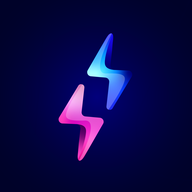
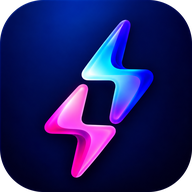
Novo ícone dos raios neon e ajustes de responsividade para iPhone
- Favicon, ícones do PWA e apple-touch-icon gerados a partir da arte em alta
  (branding/upclass-icone-fonte.png); cache do service worker renovado (v3).
- iOS: sem zoom ao focar campos, altura de tela com dvh, áreas seguras
  (notch/Dynamic Island, também com o iPhone deitado), sem realce de toque.
- Forecast: barra de filtros não passa mais da largura da tela no celular.
- Alvos de toque de pelo menos ~40 px nos botões compactos e área de toque
  ampliada nos botões de texto e interruptores.
- Painel da Loja: margens e notch no celular; botão "Tela Cheia" só aparece
  onde o navegador suporta (o Safari do iPhone não suporta).

diff --git a/src/index.css b/src/index.css
@@ -205,6 +205,7 @@ html, body {
 
 #root {
   min-height: 100vh;
+  min-height: 100dvh;
   width: 100%;
   max-width: 100vw;
   display: flex;
@@ -231,6 +232,7 @@ button {
 .app-container {
   display: flex;
   min-height: 100vh;
+  min-height: 100dvh;
   width: 100%;
   max-width: 100vw;
   position: relative;
@@ -244,6 +246,7 @@ button {
   padding: 28px 36px;
   overflow-y: auto;
   height: 100vh;
+  height: 100dvh;
   box-sizing: border-box;
 }
 
@@ -251,6 +254,7 @@ button {
   .app-container {
     flex-direction: column;
     min-height: 100vh;
+    min-height: 100dvh;
     height: auto;
   }
 
@@ -570,5 +574,110 @@ table tbody tr { transition: background-color var(--dur-fast) ease; }
     animation-iteration-count: 1 !important;
     transition-duration: 0.01ms !important;
     scroll-behavior: auto !important;
+  }
+}
+
+/* ============================================================
+   iPhone / iOS (Safari e app instalado na tela inicial)
+   ============================================================ */
+html {
+  /* Não deixa o Safari aumentar o texto sozinho ao girar a tela. */
+  -webkit-text-size-adjust: 100%;
+  text-size-adjust: 100%;
+}
+
+button,
+a,
+[role='button'],
+[role='tab'],
+summary,
+label {
+  /* Sem o retângulo cinza do toque no iOS; o estado ativo de cada botão já dá o retorno visual. */
+  -webkit-tap-highlight-color: transparent;
+  touch-action: manipulation;
+}
+
+/* Safari (iOS) dá zoom na tela ao focar campo com fonte < 16px — o layout "pula" e não volta. */
+@supports (-webkit-touch-callout: none) {
+  input:not([type='checkbox']):not([type='radio']):not([type='range']),
+  select,
+  textarea {
+    font-size: max(16px, 1em) !important;
+  }
+}
+
+/* Campos de data/número do iOS ignoram parte do estilo e ficam mais altos/largos que o resto. */
+input[type='date'],
+input[type='time'],
+input[type='datetime-local'] {
+  -webkit-appearance: none;
+  appearance: none;
+  min-width: 0;
+}
+input[type='date']::-webkit-date-and-time-value {
+  text-align: left;
+}
+
+/* Modais e listas roláveis: rolagem com inércia e sem "puxar" a página de trás. */
+[role='dialog'],
+.mc-modal,
+.turn-modal-body {
+  overscroll-behavior: contain;
+  -webkit-overflow-scrolling: touch;
+}
+
+/* Alvos de toque no celular (recomendação da Apple: ~44 pt). Botões compactos ganham altura mínima;
+   botões de texto/ícone muito pequenos ganham uma área de toque invisível maior, sem mudar o visual. */
+@media (max-width: 768px) {
+  .fin-icon-btn,
+  .sellers-month-arrow,
+  .sales-pagination-btn {
+    min-width: 40px;
+    min-height: 40px;
+  }
+  .fin-month-control select,
+  .fin-btn,
+  .sales-view-btn,
+  .sales-date-select,
+  .dv-segmented button,
+  .dv-tabs button,
+  .dv-legend-btn,
+  .access-manage-btn,
+  .fin-input {
+    min-height: 40px;
+  }
+  .fin-th-btn,
+  .fin-link-btn,
+  .fin-link,
+  .fin-back,
+  .sellers-profit-link,
+  .ios-hit,
+  .sleek-theme-switch {
+    position: relative;
+  }
+  .fin-th-btn::after,
+  .fin-link-btn::after,
+  .fin-link::after,
+  .fin-back::after,
+  .sellers-profit-link::after,
+  .ios-hit::after,
+  .sleek-theme-switch::after {
+    content: '';
+    position: absolute;
+    inset: -10px -6px;
+  }
+}
+
+/* iPhone deitado: o notch/Dynamic Island fica na lateral — o conteúdo não passa por baixo dele. */
+@media (max-width: 1024px) {
+  .main-content {
+    padding-left: max(24px, env(safe-area-inset-left, 0px));
+    padding-right: max(24px, env(safe-area-inset-right, 0px));
+  }
+}
+@media (max-width: 640px) {
+  .main-content {
+    padding-left: max(14px, env(safe-area-inset-left, 0px));
+    padding-right: max(14px, env(safe-area-inset-right, 0px));
   }
 }

diff --git a/src/pages/Settings.tsx b/src/pages/Settings.tsx
@@ -92,6 +92,7 @@ export function Settings() {
               <p className="text-muted text-sm">Mostra o ranking de vendedores no dashboard principal.</p>
             </div>
             <button
+              className="ios-hit"
               onClick={() => toggle('show_ranking')}
               style={{
                 width: '44px', height: '24px', borderRadius: '12px',
@@ -114,6 +115,7 @@ export function Settings() {
               <p className="text-muted text-sm">Mostra os cards de meta da semana e do mês.</p>
             </div>
             <button
+              className="ios-hit"
               onClick={() => toggle('show_goals')}
               style={{
                 width: '44px', height: '24px', borderRadius: '12px',
@@ -136,6 +138,7 @@ export function Settings() {
               <p className="text-muted text-sm">Mostra os produtos mais vendidos e estoque crítico.</p>
             </div>
             <button
+              className="ios-hit"
               onClick={() => toggle('show_products')}
               style={{
                 width: '44px', height: '24px', borderRadius: '12px',
@@ -158,6 +161,7 @@ export function Settings() {
               <p className="text-muted text-sm">Habilita a visualização do botão para o modo apresentação.</p>
             </div>
             <button
+              className="ios-hit"
               onClick={() => toggle('show_tv_panel')}
               style={{
                 width: '44px', height: '24px', borderRadius: '12px',
@@ -209,7 +213,7 @@ export function Settings() {
                   <button
                     type="button"
                     onClick={() => setEditingPhotoSeller(seller)}
-                    className="text-muted"
+                    className="text-muted ios-hit"
                     style={{
                       fontSize: '12px',
                       background: 'none',
@@ -240,6 +244,7 @@ export function Settings() {
                   {seller.show_in_ranking ? 'No ranking' : 'Oculto'}
                 </span>
                 <button
+                  className="ios-hit"
                   onClick={() => toggleSellerRanking(seller)}
                   style={{
                     width: '44px', height: '24px', borderRadius: '12px',

diff --git a/src/components/finance/finance.css b/src/components/finance/finance.css
@@ -332,7 +332,7 @@
   --fin-surface: var(--bg-card); --fin-surface-2: var(--surface-subtle); --fin-row-hover: var(--surface-subtle); --fin-border: var(--border-color);
   --fin-muted: var(--text-muted); --fin-text: var(--text-dark); --fin-highlight-border: color-mix(in srgb, var(--accent-text) 45%, transparent);
   position: absolute; left: 50%; top: 50%; transform: translate(-50%, -50%); width: min(720px, calc(100vw - 32px));
-  max-height: calc(100vh - 48px); overflow-y: auto; background: var(--fin-surface); color: var(--fin-text);
+  max-height: calc(100vh - 48px); max-height: calc(100dvh - 48px); overflow-y: auto; background: var(--fin-surface); color: var(--fin-text);
   border: 1px solid var(--fin-border); border-radius: 16px; padding: 18px 20px; display: flex; flex-direction: column; gap: 12px;
   box-shadow: 0 30px 60px rgba(0, 0, 0, 0.35);
 }
@@ -417,6 +417,11 @@
   /* Filtros empilhados ocupam a largura toda, sem ultrapassar a tela. */
   .fc-filters > .fin-sort { flex: 1 1 100%; min-width: 0; }
   .fc-filters > .fin-sort select { flex: 1; min-width: 0; text-overflow: ellipsis; }
+  /* iPhone: a barra de filtros ocupa a largura do cabeçalho e encolhe com ele (antes passava da tela). */
+  .fc-team-head { flex-wrap: wrap; }
+  .fc-team-head > .fc-filters { flex: 1 1 100%; min-width: 0; width: 100%; }
+  .fc-filters > .category-tabs { flex: 1 1 100%; min-width: 0; }
+  .fc-kind-tabs .category-tab { flex: 1 1 0; padding: 10px 8px; }
 }
 @media (max-width: 480px) {
   .fc-card dl { grid-template-columns: 1fr; }

diff --git a/src/pages/TVPanel.tsx b/src/pages/TVPanel.tsx
@@ -195,7 +195,11 @@ export function TVPanel() {
     };
   }, []);
 
+  // iPhone (Safari) não tem tela cheia para páginas: o botão some onde o recurso não existe.
+  const canFullscreen = typeof document !== 'undefined' && document.fullscreenEnabled === true && typeof document.documentElement.requestFullscreen === 'function';
+
   const toggleFullscreen = () => {
+    if (!canFullscreen) return;
     if (!document.fullscreenElement) {
       containerRef.current?.requestFullscreen().catch(() => {});
       setIsFullscreen(true);
@@ -256,14 +260,16 @@ export function TVPanel() {
             </span>
           </div>
 
-          <button 
-            className="btn-fullscreen" 
-            onClick={toggleFullscreen}
-            title={isFullscreen ? "Sair da tela cheia" : "Modo tela cheia"}
-          >
-            {isFullscreen ? <Minimize2 size={16} /> : <Maximize2 size={16} />}
-            <span>{isFullscreen ? 'Janela' : 'Tela Cheia'}</span>
-          </button>
+          {canFullscreen && (
+            <button
+              className="btn-fullscreen"
+              onClick={toggleFullscreen}
+              title={isFullscreen ? "Sair da tela cheia" : "Modo tela cheia"}
+            >
+              {isFullscreen ? <Minimize2 size={16} /> : <Maximize2 size={16} />}
+              <span>{isFullscreen ? 'Janela' : 'Tela Cheia'}</span>
+            </button>
+          )}
         </div>
       </header>
 

diff --git a/src/pages/TVPanel.css b/src/pages/TVPanel.css
@@ -7,6 +7,7 @@
   margin: 0 auto;
   padding: 32px 40px;
   min-height: 100vh;
+  min-height: 100dvh;
   box-sizing: border-box;
   animation: fadeIn 0.3s ease-in-out;
 }
@@ -568,6 +569,7 @@
   background-image: radial-gradient(80% 50% at 100% 0%, rgba(6, 63, 241, 0.16) 0%, transparent 60%);
   padding: 40px;
   height: 100vh;
+  height: 100dvh;
   overflow-y: auto;
   max-width: 100%;
 }
@@ -643,5 +645,23 @@
   .goal-trophy-icon,
   .live-dot {
     animation: none;
+  }
+}
+
+/* iPhone: margens respeitam o notch/Dynamic Island e a barra inferior (app instalado com barra de
+   status translúcida) e encolhem no celular. */
+.store-panel-container {
+  padding-top: max(32px, env(safe-area-inset-top, 0px));
+  padding-right: max(40px, env(safe-area-inset-right, 0px));
+  padding-bottom: max(32px, env(safe-area-inset-bottom, 0px));
+  padding-left: max(40px, env(safe-area-inset-left, 0px));
+}
+@media (max-width: 640px) {
+  .store-panel-container {
+    gap: 20px;
+    padding-top: max(16px, calc(env(safe-area-inset-top, 0px) + 8px));
+    padding-right: max(14px, env(safe-area-inset-right, 0px));
+    padding-bottom: max(24px, env(safe-area-inset-bottom, 0px));
+    padding-left: max(14px, env(safe-area-inset-left, 0px));
   }
 }

diff --git a/index.html b/index.html
@@ -2,9 +2,11 @@
 <html lang="pt-BR">
   <head>
     <meta charset="UTF-8" />
-    <link rel="icon" type="image/png" sizes="32x32" href="/favicon-32.png" />
-    <link rel="icon" type="image/png" sizes="192x192" href="/pwa-192.png" />
-    <link rel="apple-touch-icon" href="/apple-touch-icon.png" />
+    <link rel="icon" href="/favicon.ico?v=3" sizes="any" />
+    <link rel="icon" type="image/png" sizes="16x16" href="/favicon-16.png?v=3" />
+    <link rel="icon" type="image/png" sizes="32x32" href="/favicon-32.png?v=3" />
+    <link rel="icon" type="image/png" sizes="192x192" href="/pwa-192.png?v=3" />
+    <link rel="apple-touch-icon" href="/apple-touch-icon.png?v=3" />
     <link rel="manifest" href="/manifest.webmanifest" />
     <meta name="viewport" content="width=device-width, initial-scale=1.0, viewport-fit=cover" />
     <meta name="theme-color" content="#000229" />

diff --git a/public/sw.js b/public/sw.js
@@ -1,6 +1,6 @@
 // Service worker do PWA. Só trata GET do próprio domínio: chamadas ao Supabase passam direto.
-// Versão do cache: incrementada no rebranding Upclass para renovar ícones e manifest.
-const CACHE = 'vdi-v2';
+// Versão do cache: incrementada a cada troca de ícones/manifest (v3: ícone dos raios neon).
+const CACHE = 'vdi-v3';
 const SHELL = ['/', '/manifest.webmanifest', '/pwa-192.png', '/pwa-512.png', '/apple-touch-icon.png', '/pwa-maskable-512.png'];
 
 self.addEventListener('install', (event) => {

diff --git a/src/components/Sidebar.css b/src/components/Sidebar.css
@@ -12,6 +12,7 @@
   flex-direction: column;
   padding: 28px 16px 20px;
   height: 100vh;
+  height: 100dvh;
   box-sizing: border-box;
   position: sticky;
   top: 0;
